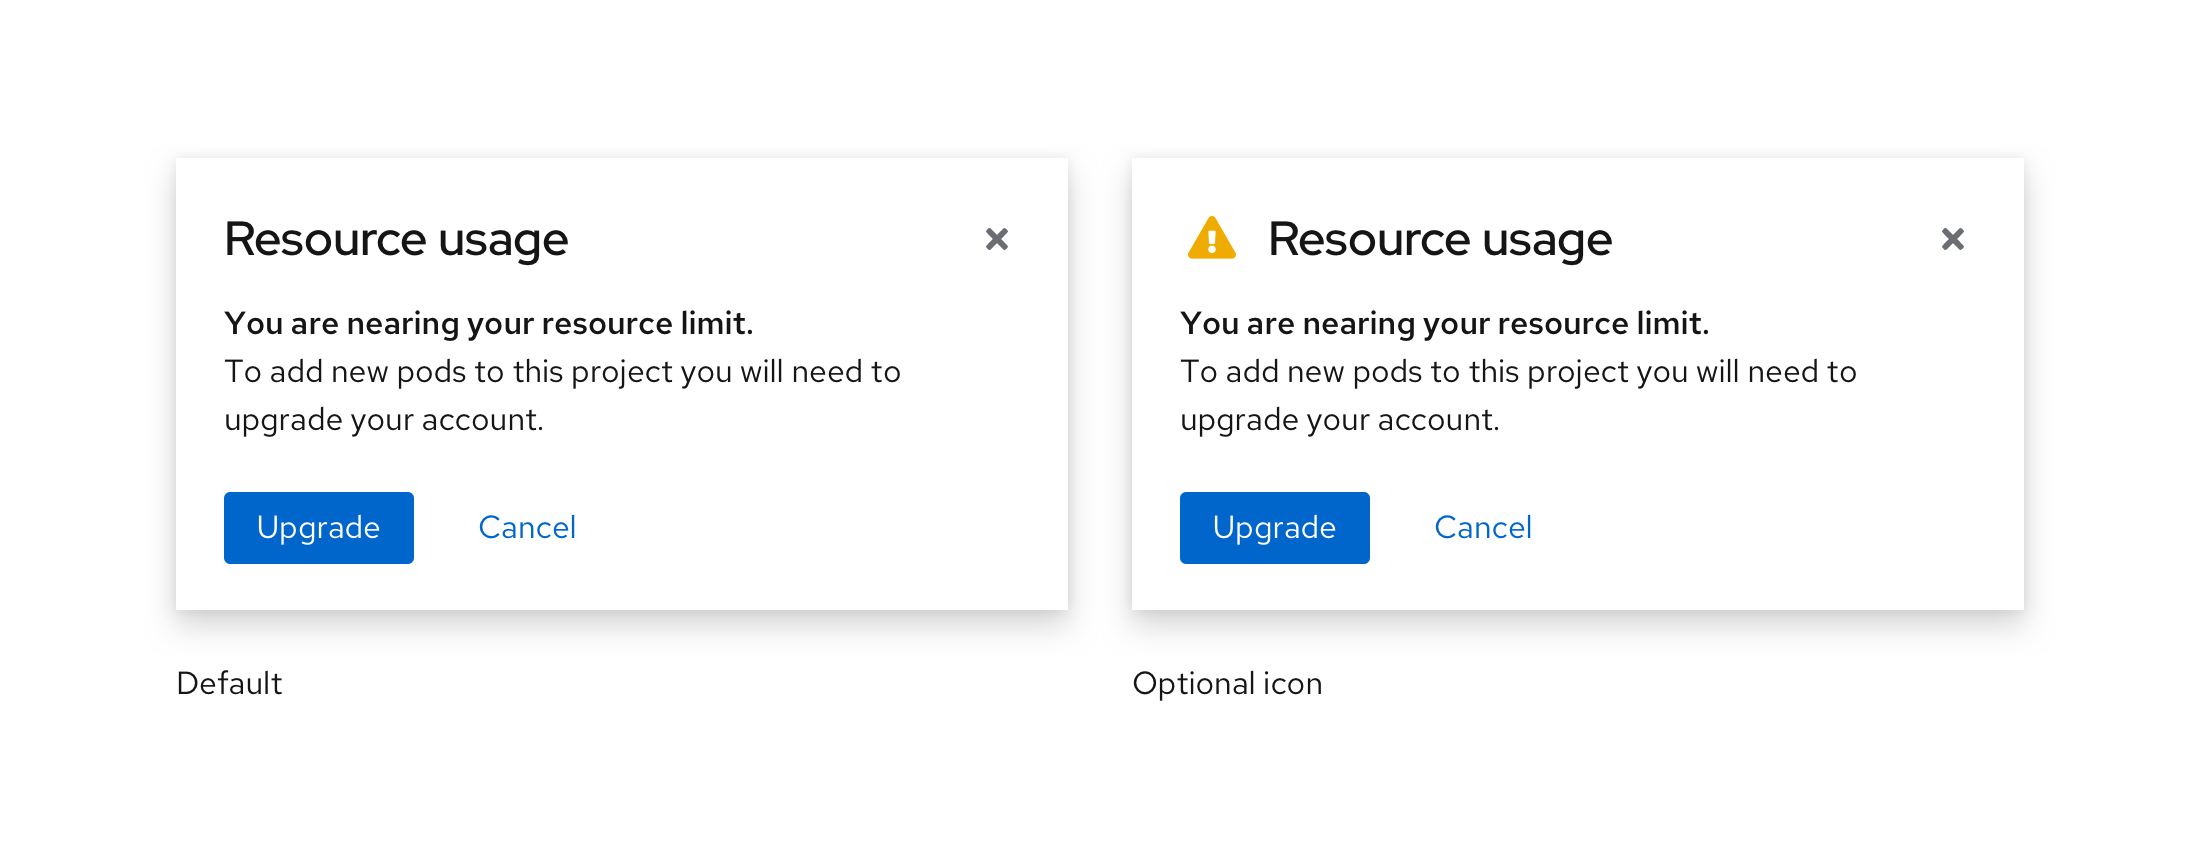
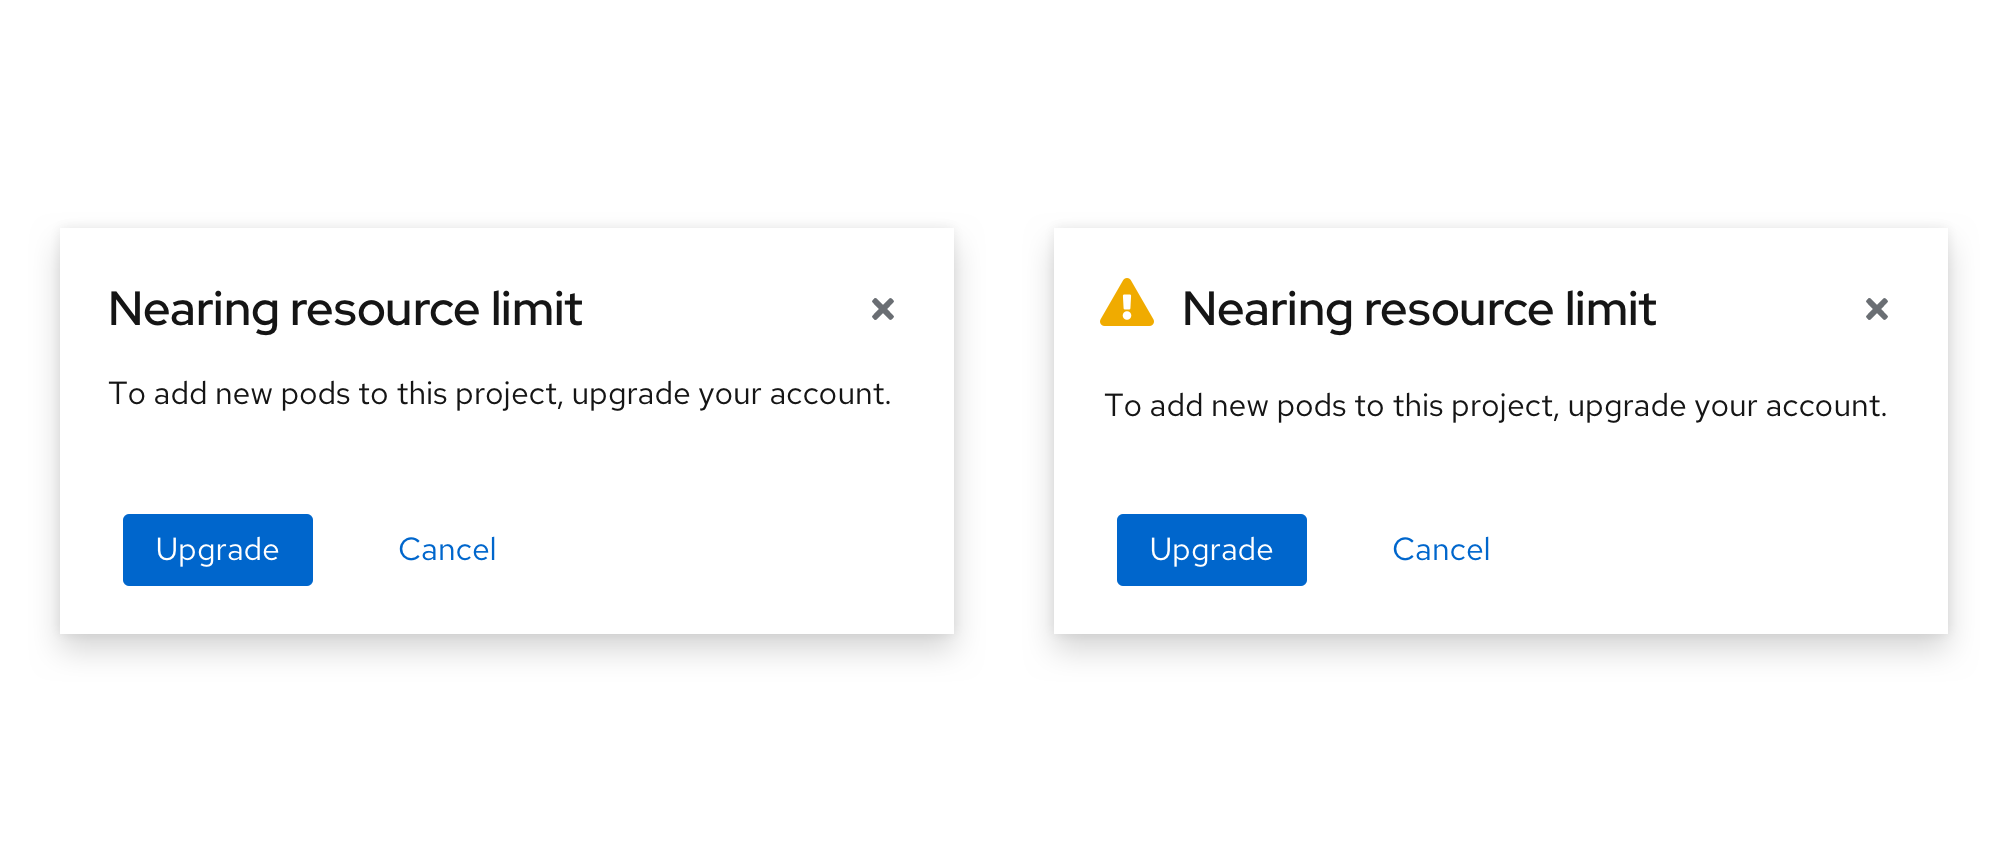
Updating modal guidelines

diff --git a/packages/v4/src/content/design-guidelines/components/modal/modal.md b/packages/v4/src/content/design-guidelines/components/modal/modal.md
@@ -7,111 +7,132 @@ related: ['Button']
 import CheckIcon from '@patternfly/react-icons/dist/esm/icons/check-icon';
 import TimesIcon from '@patternfly/react-icons/dist/esm/icons/times-icon';
 
-A **modal** loads and displays important information without navigating away from the current page.
+A **modal** displays important information to a user without requiring them to navigate to a new page.
 
 ## Primary elements
-<img src="./img/modal.png" alt="Modal" />
 
-1. **Backdrop**
-2. **Modal box**
-3. **Title:** Concisely convey the purpose of the modal.
-4. **Close**
-5. **Content area**
-6. **Buttons:** Enable a user to confirm, submit, or exit. Modal dialogs can include multiple action buttons, but should be limited to one primary button
+<img src="./img/modal-call-outs.png" alt="An example of a modal in context with call outs to highlight each listed element" width="756"/>
 
-### Spacing
-#### Compact
-<img src="./img/compact.png" alt="Compact" /> 
+* **Backdrop**
+* **Modal box**
+* **Headline**
+* **Close icon**
+* **Content area**
+* **Buttons** 
 
-The compact modal dialog uses a spacing of 24px. Use this for smaller modals that don’t contain much content.
+See the "[Content](#content)" section for information about writing modal copy.
 
-#### Large
-<img src="./img/large.png" alt="Large" />
+## Spacing
 
-The large modal dialog uses a spacing of 32px. Use this for larger modals that contain a lot of content (code previews, forms, tables...).
+### Compact (24px)
+
+<img src="./img/modal-compact.png" alt="A compact modal with 24px spacers" width="600" />
+
+
+Compact modals have 24px spacing and are best used for modals that contain small amounts of content. 
+
+### Large (32 px)
+
+<img src="./img/modal-large.png" alt="A large modal with 32px spacers" width="675" />
+
+Large modals have a 32px spacing to accommodate a larger content area for elements like code previews, forms, and tables.
 
 ## Usage
-### When to use
-Use a modal dialog when information is critical and requires user input or attention.
-Use modals to:
 
-* [Validate user decisions](#validate-user-decisions)
-* [Report errors](#report-errors)
-* [Provide the result of a task or state of an application](#provide-the-result-of-a-task-or-state-of-an-application)
-* [Get required user input](#get-required-user-input)
+Use a modal to communicate critical information that requires user input or action. 
 
-### When not to use
-Modal dialogs interrupt user task flow and should be avoided for any information that is not critical to user success.
+Modals can:
 
-### Types of modals
-#### Validate user decisions
-Use a confirmation dialog to validate user decisions and communicate consequences. Confirmation dialogs need to clearly restate the action the user is trying to take and explicitly outline the consequences of that action. They should be clear, concise, and direct. Give the user the important information first—additional detail like “Are you sure?” clutters your message and can be distracting.
+* Validate user decisions.
+* Confirm non-destructive or destructive actions.
+* Report errors.
+* Share task results and statuses.
+* Prompt required user input.
 
-Depending on your design template, follow this format for confirmation dialogs:
-* **Headline:** A headline is usually phrased as a question. Include important keywords (like “permanent”) in the headline.
-* **Body text:** Body text gives information about the action’s consequence.
-* **Buttons:** Buttons allow a user to answer the headline question. These can simply be “yes” or “no,” but adding some context increases clarity—especially when skimming.
+Don’t use a modal unless its information is vital to user success and worth disrupting a user’s task flow.
 
-**Note:** Since confirmation dialogs disrupt user task flow, do not provide confirmation dialogs for actions that are easily reversed or insignificant.
+## Types of modals
 
-##### Confirm a non-destructive action
-<img src="./img/confirm-non-destructive-action.png" alt="Confirm a non-destructive action" />
+Modals serve several functions in a UI and appear in three main types:
 
-Provide buttons on confirmation dialogs that make it simple for users to understand and confirm their choices. When choosing button labels, use descriptive verbs that clearly indicate the consequence of a selection, like Delete, Save, or Create. Avoid vague labels like OK or Done.
+* [Confirmation dialogs](#confirmation-dialogs)
 
-Ambiguous title and button labels make it more difficult for the user to understand their options and make a decision. Descriptive title and button labels make it easy for the user to scan the content and make a decision quickly.
+* [Error dialogs](#error-dialogs)
 
-##### Confirm a destructive action
-<img src="./img/confirm-destructive-action.png" alt="Confirm a destructive action" />
+* [Passive dialogs](#passive-dialogs)
 
-If an action is difficult or impossible to undo, a warning icon can be incorporated into the modal to add emphasis. If an action will seriously impact the system and cannot be undone, use a destructive style button. Otherwise, use a primary button.
+### Confirmation dialogs
 
-Sometimes it is necessary to require an additional confirmation with a destructive action. An example using a form field can be seen below. In order for the destructive action to become actionable, the user needs to type in a word or phrase to make the button active.
-<img src="./img/2-step-confirm-destructive-action.png" alt="2 step confirm a destructive action" />
+Use a confirmation dialog to validate user decisions and communicate their consequences. Confirmation dialogs can confirm non-destructive and destructive actions.
 
-#### Report errors
-<img src="./img/error-dialog.png" alt="Error dialog" />
+#### Confirm a non-destructive action
 
-Use error dialogs to inform users of problems interrupting normal or expected behavior.
-An error message should be actionable, human readable, and answer the following questions:
-* What is the problem?
-* Why did it happen?
-* How can I fix it?
+<img src="./img/non-destructive-confirmation-dialog.png" alt="A side-by-side comparison of unsuccessful and successful confirmaton dialogs for leaving a page without saving. The successful dialog explains the consequence of this action: All unsaved informaton will be lost." />
 
-Never blame the user. Use passive voice where appropriate to avoid assigning blame.
-* <TimesIcon /> You put in the wrong password.
-* <CheckIcon /> That password wasn’t recognized OR
-* <CheckIcon /> We didn’t recognize that password.
+When confirming a non-destructive action, provide specific context about what will happen once a user confirms it.
 
-#### Provide the result of a task or state of an application
-<img src="./img/passive-dialog.png" alt="Passive dialog" />
+#### Confirm a destructive action
 
-Use passive dialogs to communicate critical information like the status of an application or result of an action. The content of a passive dialog should be important, immediately relevant, and either lead to or require action on the user’s part.
+<img src="./img/destructive-confirmation-dialog.png" alt="A side-by-side comparison of unsuccessful and successful destructive confirmaton dialogs for deleting a record. The successful dialog explains the consequence of deleting this record: Record name, location, and notes will be lost." />
 
-Some usage examples include:
-* Notifying a user that an operation may take a long time to complete
-* Notifying a user that a critical process is complete
+Use a [primary button](/components/button/design-guidelines#primary-button) to confirm a destructive action. If the action carries serious consequences, then use a [danger button](/components/button/design-guidelines#danger-button) instead.
 
-**Note:** If information is not critical, don’t use a passive dialog. Instead, use inline notifications or toast notifications.
+If an action is difficult or impossible to undo, add a warning icon beside the headline. 
 
-#### Get required user input
-Sometimes users may need to provide additional input in order to complete an action. In this situation a form or other type of element may be incorporated into the modal. An example of this use case is the [modal wizard](/components/modal/react#with-wizard).
+If a destructive action has serious consequences, consider adding an additional step before its destructive button becomes active. Additional confirmation measures like [text input](/components/text-input/design-guidelines) fields safeguard a user from accidentally completing the action. 
 
-### Content
-* Clearly restate the action the user is trying to take and explicitly outline the consequences of that action.
+When a text input field is added to a confirmation dialog, the danger button will only become selectable once a user enters the entire word or phrase.
 
-* Provide button labels that make it simple for users to understand and confirm their choices. Use descriptive verbs that clearly indicate the consequence of a selection, like Delete, Save, or Create. Avoid vague labels like OK or Done.
+<img src="./img/multi-step-destructive-confirmation-dialog.png" alt="A multi-step destructive confirmation dialog's button activates only after a user types DELETE into the input field." />
 
-* Use descriptive title and button labels so the user can scan content and make a decision quickly. Ambiguous title and button labels make it more difficult for the user to understand their options and make a decision.
 
-* If the modal needs to convey the importance of information visually, icons can be added.
+### Error dialogs
 
-See our [content guidelines](/ux-writing/about) for additional guidance.
+<img src="./img/error-dialog.png" alt="An example of a successful error dialog, with and without an error icon" />
+
+Use an error dialog to inform users of problems that interrupt normal or expected behavior. Briefly contextualize the problem and why it happened, then provide actionable steps toward a solution.
+
+Learn more about writing error messages in our [error message guidelines](/ux-writing/error-messages).
+
+Error dialogs may use an error icon for visual emphasis.
+
+### Passive dialogs
+
+<img src="./img/passive-dialog.png" alt="An example of a successful passive dialog, with and without a warning icon" />
+
+Use a passive dialog to communicate critical and immediately relevant information like the status of an application or an action’s result. Passive dialog content should require or lead to user action.
+
+Passive dialogs can also notify the user about the status or duration of a critical process, especially if the process may take an unusual amount of time to complete.
+
+Never use a passive dialog for non-critical information. Instead, use an [inline alert](/components/alert/design-guidelines/#inline-alerts) or a [toast alert](/components/alert/design-guidelines/#toast-alerts).
+
+### Using dialogs to prompt user input
+
+Users may need to provide additional input to complete an action. To accomplish this, use forms or other elements within the modal, like in a [modal wizard](/components/modal/react#with-wizard).
+
+## Content
+
+All modal content should be descriptive and specific so that users can scan, understand an action's context, and make a quick decision.
+
+A modal is comprised of three main content sections:
+
+1. **Headline:** A headline introduces a modal’s purpose, usually as a question. Use important key words like “permanently” to contextualize an action and its impact.
+<br>
+
+2. **Body text:** Body text provides additional information about an action’s consequence in three lines or less, typically concerning changes to a user’s workflow or access to information. If a modal’s headline fully communicates an action’s context and consequences, body text isn’t needed.
+<br>
+3. **Buttons:** Buttons allow a user to answer the headline prompt or question. Write button labels as action-based verbs to clearly communicate their function and consequence, and keep them to 1–3 words. Often, verbs for buttons can be pulled directly from a modal’s headline to increase scannability. <br>
+Example headline: *Permanently delete database?*
+Example buttons: *Delete* and *Cancel* <br>
+For more button guidance, see our [button label guidelines](/components/button/design-guidelines#content).
+
+For general content guidance to help write effective modal dialogs, see our [UX writing style guide](/ux-writing/about).
+
 
 #### Icon use in modal dialogs
 
 | Icon | Use case(s) | Usage |
 | ------------- |-------------|-------------|
-| <span style="color: rgb(240, 171, 0)"> <i class="fas fa-exclamation-triangle" aria-label="warning" /> </span> | **Warning:** Caution/ Warning | Use on confirmation dialogs or passive dialogs to indicate a higher level of urgency and importance.|
-| <span style="color: rgb(201, 25, 11)"> <i class="fas fa-exclamation-circle" aria-label="critical warning" /> </span> | **Critical Warning:** Information will be deleted/permanent action  | Use on confirmation dialogs or passive dialogs to indicate the highest level of urgency and importance. |
-| <span style="color: rgb(43, 154, 243)"> <i class="fas fa-info-circle" aria-label="acknowledgement" /> </span> | **Acknowledgement:** Inform the user of an action or result  | Use on confirmation or passive dialogs to indicate a lower level of urgency. |
+| <span style="color: rgb(240, 171, 0)"> <i class="fas fa-exclamation-triangle" aria-label="warning" /> </span> | **Warning:** Cautions or warns the user | Add to confirmation dialogs or passive dialogs to indicate a higher level of urgency and importance.|
+| <span style="color: rgb(201, 25, 11)"> <i class="fas fa-exclamation-circle" aria-label="critical warning" /> </span> | **Critical Warning:** Indicates a permanent action, or that information will be deleted upon action completion  | Add to confirmation dialogs or passive dialogs to indicate the highest level of urgency and importance.|
+| <span style="color: rgb(43, 154, 243)"> <i class="fas fa-info-circle" aria-label="acknowledgement" /> </span> | **Acknowledgement:** Informs the user of an action or result  | Add to confirmation or passive dialogs to indicate a lower level of urgency. |
